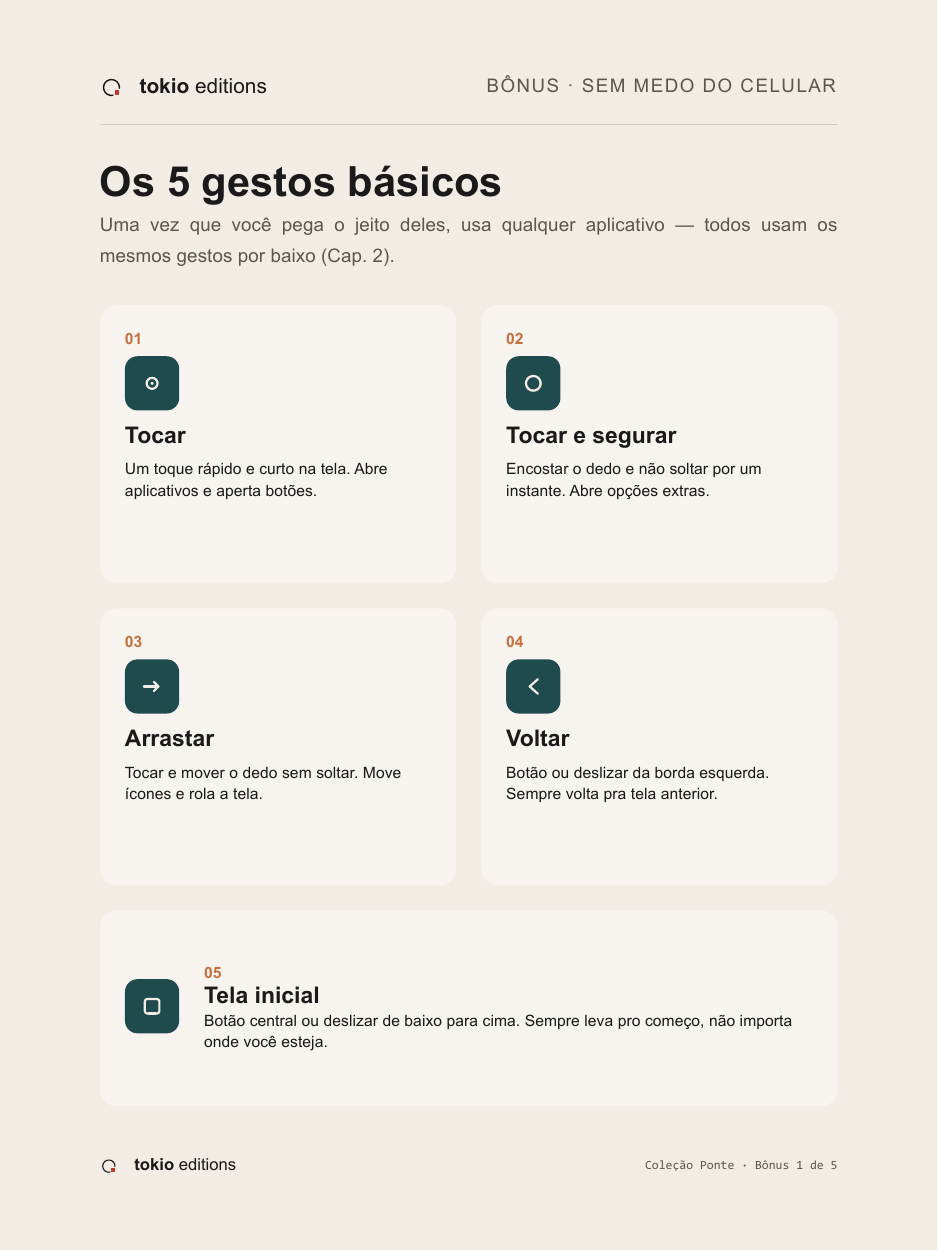
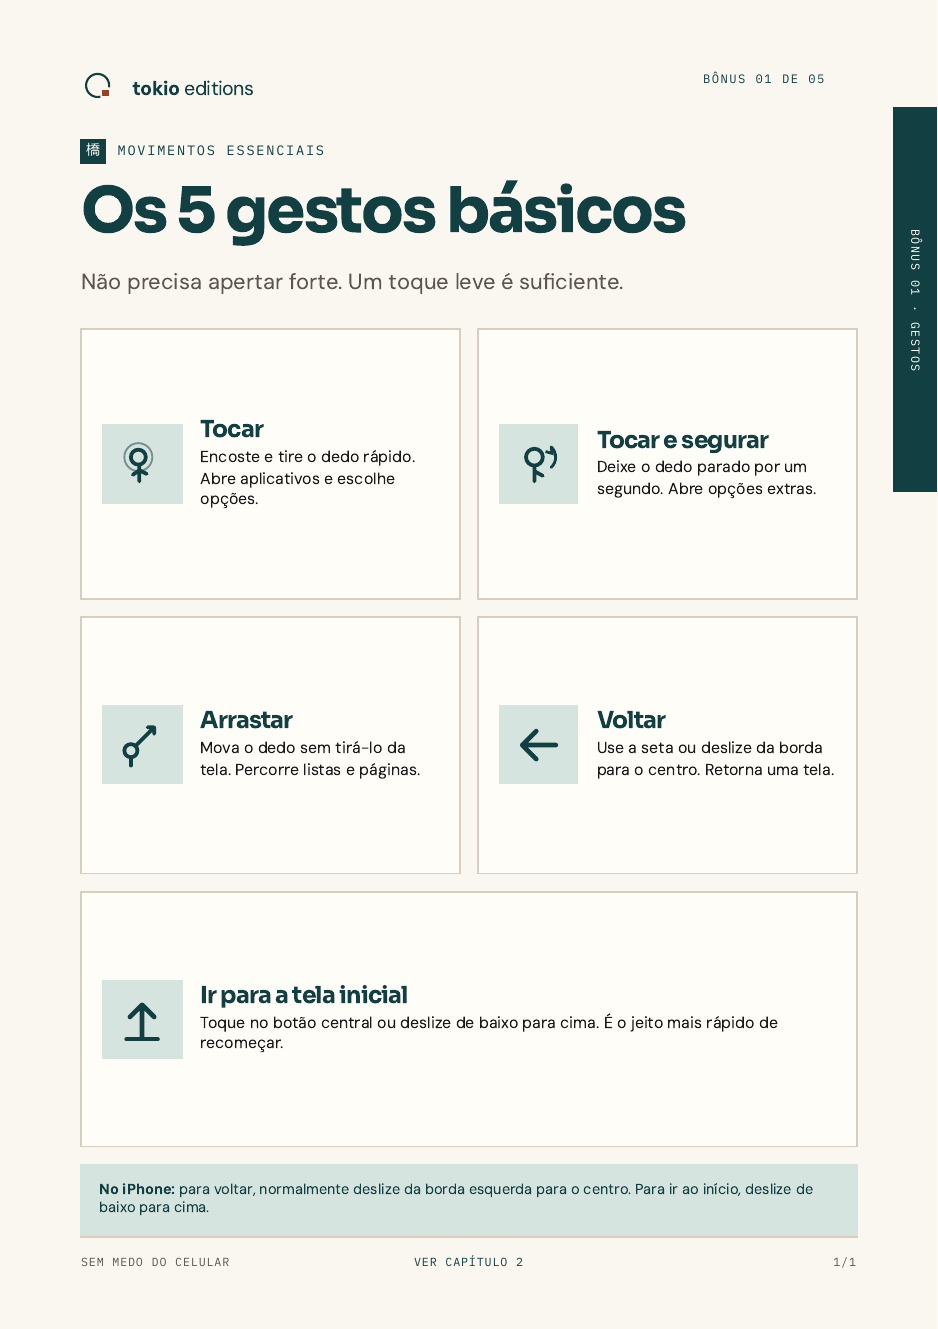
feat: atualiza mockups dos bonus na landing

diff --git a/sem-medo-do-celular.html b/sem-medo-do-celular.html
@@ -60,10 +60,10 @@
     <section class="product section-pad" aria-labelledby="product-title">
       <div class="section-shell product-grid">
         <div class="package-mockup reveal" aria-label="Capa do e-book com páginas reais de três dos cinco bônus incluídos">
-          <figure class="bonus-preview bonus-preview-gestos"><img src="assets/images/bonus-gestos-preview.png" alt="Página real do bônus Os 5 gestos básicos" width="907" height="1250" loading="lazy"></figure>
-          <figure class="bonus-preview bonus-preview-golpes"><img src="assets/images/bonus-golpes-preview.png" alt="Página real do bônus Os 5 golpes mais comuns" width="907" height="1250" loading="lazy"></figure>
+          <figure class="bonus-preview bonus-preview-gestos"><img src="assets/images/bonus-gestos-preview.png" alt="Página real do bônus Os 5 gestos básicos" width="938" height="1329" loading="lazy"></figure>
+          <figure class="bonus-preview bonus-preview-golpes"><img src="assets/images/bonus-golpes-preview.png" alt="Página real do bônus Os 5 golpes mais comuns" width="938" height="1329" loading="lazy"></figure>
           <figure class="book-cover"><img src="assets/images/capa-sem-medo-do-celular-v2.png" alt="Capa do e-book Sem Medo do Celular" width="1088" height="1450" loading="lazy"></figure>
-          <figure class="bonus-preview bonus-preview-planner"><img src="assets/images/bonus-planner-preview.png" alt="Página real do bônus Planner 21 dias sem medo" width="907" height="1250" loading="lazy"></figure>
+          <figure class="bonus-preview bonus-preview-planner"><img src="assets/images/bonus-planner-preview.png" alt="Página real do bônus Planner 21 dias sem medo" width="938" height="1329" loading="lazy"></figure>
           <div class="package-badge"><span>e-book</span><strong>+ 5 bônus</strong></div>
         </div>
         <div class="product-copy reveal"><p class="eyebrow"><span class="kanji">本</span>Por dentro do produto</p><h2 id="product-title">Feito para ler.<br>Feito para consultar.</h2><p>Capítulos curtos, letra grande, contraste forte, telas didáticas e um caminho que pode ser retomado quantas vezes for necessário.</p><dl class="product-facts"><div><dt>135</dt><dd>páginas</dd></div><div><dt>16</dt><dd>capítulos</dd></div><div><dt>03</dt><dd>blocos</dd></div><div><dt>05</dt><dd>bônus práticos</dd></div></dl></div>
